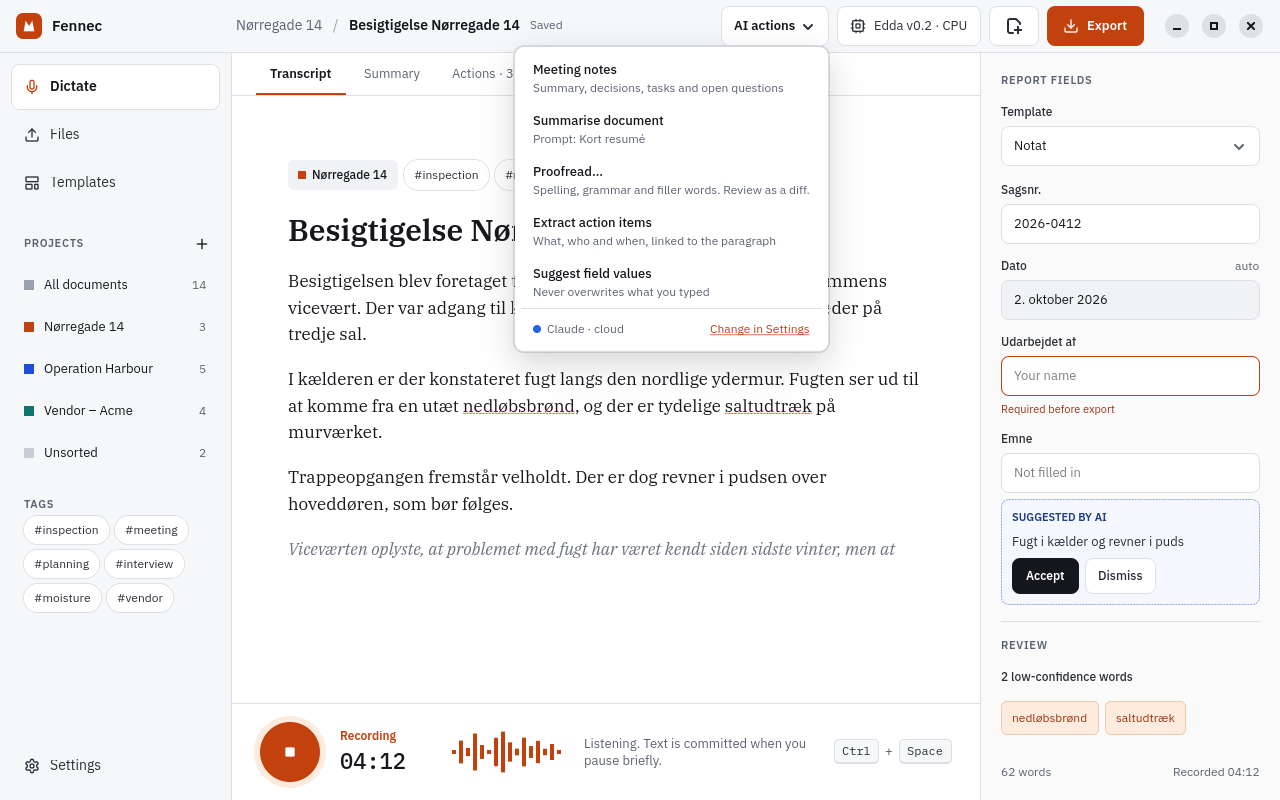
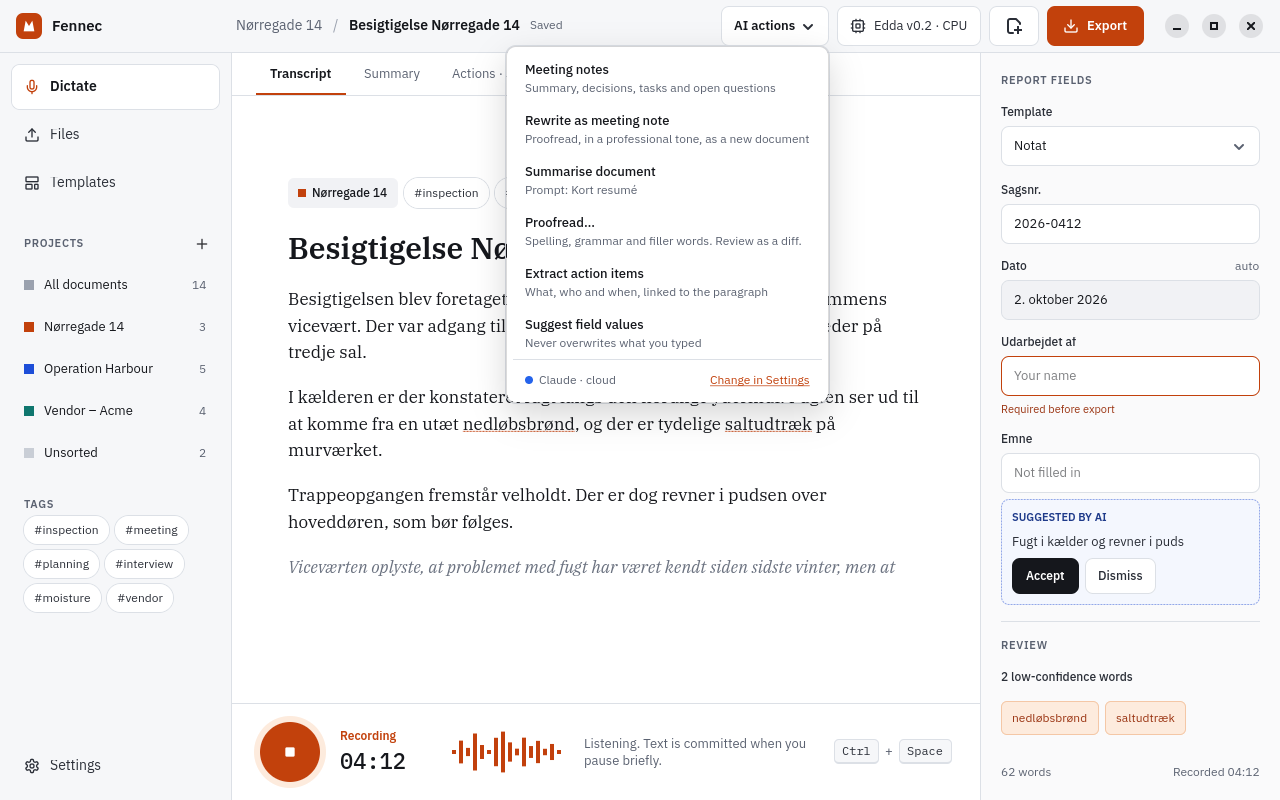
Version 0.5.0, README for sending by QR code and the meeting-note rewrite
- Version 0.5.0 (Fennec Recorder versionCode 11).
- README: the meeting-note rewrite and proofreading in parts, folding on
  small screens, two new screenshots (a meeting note, Receive from phone),
  the AI menu screenshot with Rewrite as meeting note, and what has not been
  tried on a real phone yet.
- Release notes: send by scanning the code, not Pair a phone.
- Opening the finished meeting note now updates the header to its title.
- Mockups: Receive from phone with a stand-in phone, the opened meeting
  note, and meeting notes answered by the mock model instead of Claude.

Changed region(s): [[0.2188, 0.0625, 0.7188, 0.7188]]

diff --git a/tests/mockup/phone.rs b/tests/mockup/phone.rs
@@ -1,0 +1,94 @@
+//! Receive from phone: the code to scan, then a phone sending two
+//! recordings, one arrived and one halfway (a stand-in phone on a thread
+//! speaks the protocol).
+
+use std::time::Duration;
+
+use fennec::ui::Nav;
+
+use crate::{Scene, pump_until};
+
+pub fn capture(s: &Scene) {
+    s.w.sidebar.go(Nav::Files);
+    s.w.phone.receive();
+    let Some(offer) = s.w.phone.offer() else {
+        println!("FAILED no code to scan: {:?}", s.w.phone.transfer());
+        return;
+    };
+    s.shot("receive-phone");
+
+    let base = format!("https://{}", offer.address);
+    let phone = std::thread::spawn(move || {
+        let client = reqwest::blocking::Client::builder()
+            .danger_accept_invalid_certs(true)
+            .build()
+            .unwrap();
+        let hello: serde_json::Value = client
+            .post(format!("{base}/v1/hello"))
+            .json(&serde_json::json!({ "ticket": offer.ticket, "device_name": "Pixel 8" }))
+            .send()
+            .and_then(|r| r.json())
+            .unwrap_or_default();
+        let Some(session) = hello["session"].as_str() else {
+            return;
+        };
+        let send = |id: &str, title: &str, audio: &[u8], sent: usize, ext: &str| {
+            use sha2::Digest;
+            let sum: String = sha2::Sha256::digest(audio)
+                .iter()
+                .map(|b| format!("{b:02x}"))
+                .collect();
+            let meta = serde_json::json!({
+                "title": title, "recorded_at": 1_791_000_000_000_i64, "duration_ms": 1_800_000,
+                "ext": ext, "size": audio.len(), "sha256": sum,
+            });
+            let _ = client
+                .put(format!("{base}/v1/recordings/{id}"))
+                .bearer_auth(session)
+                .json(&meta)
+                .send();
+            let mut offset = 0;
+            while offset < sent {
+                let n = (sent - offset).min(1 << 20);
+                let _ = client
+                    .put(format!("{base}/v1/recordings/{id}/audio?offset={offset}"))
+                    .bearer_auth(session)
+                    .body(audio[offset..offset + n].to_vec())
+                    .send();
+                offset += n;
+            }
+            if sent == audio.len() {
+                let _ = client
+                    .post(format!("{base}/v1/recordings/{id}/complete"))
+                    .bearer_auth(session)
+                    .send();
+            }
+        };
+        let wav = std::fs::read(concat!(
+            env!("CARGO_MANIFEST_DIR"),
+            "/tests/fixtures/da_fleurs_0.wav"
+        ))
+        .unwrap();
+        send(
+            "aaaaaaaa-1111-2222-3333-444444444444",
+            "Byggemøde, Havnegade",
+            &wav,
+            wav.len(),
+            "wav",
+        );
+        let long = vec![0u8; 6_400_000];
+        send(
+            "bbbbbbbb-1111-2222-3333-444444444444",
+            "Interview med afdelingslederen",
+            &long,
+            2_600_000,
+            "aac",
+        );
+    });
+    let _ = phone.join();
+    pump_until(Duration::from_secs(5), || {
+        s.w.phone.dialog_page().as_deref() == Some("sending")
+    });
+    s.shot("receive-sending");
+    s.w.phone.close();
+}

diff --git a/tests/mockup/main.rs b/tests/mockup/main.rs
@@ -9,6 +9,7 @@ mod cleanup;
 mod dictate;
 mod export;
 mod files;
+mod phone;
 mod project;
 mod settings;
 #[path = "../support/mod.rs"]
@@ -641,7 +642,13 @@ fn model(rec: &Recorded) -> Reply {
     if prompt.contains("Skriv diktatet om til et mødenotat") {
         std::thread::sleep(Duration::from_millis(2500));
         return Reply::Text(
-            "Besigtigelsen blev foretaget tirsdag formiddag sammen med ejendommens vicevært.".into(),
+            "Besigtigelsen blev foretaget tirsdag formiddag sammen med ejendommens vicevært. \
+             Der blev givet adgang til kælderen, trappeopgangen og to lejligheder på tredje sal.\n\n\
+             I kælderen blev der konstateret fugt langs den nordlige ydermur. Fugten stammer \
+             sandsynligvis fra en utæt nedløbsbrønd, og der er tydelige saltudtræk på murværket.\n\n\
+             Trappeopgangen er i god stand. Der er dog revner i pudsen over hoveddøren, som bør \
+             følges."
+                .into(),
         );
     }
     if prompt.contains("Korrekturlæs hvert afsnit") {
@@ -736,6 +743,8 @@ fn deps(root: &Path, llm: &MockLlm) -> Deps {
         ("action-items", "claude"),
         ("ask", "claude"),
         ("fill-fields", "workstation"),
+        // Rewrite as meeting note runs here; the Summary shown is seeded.
+        ("meeting-notes", "workstation"),
     ] {
         settings.ai.jobs.insert(job.into(), p.into());
     }
@@ -820,5 +829,9 @@ fn main() {
     // Last: it adds three documents, which would change other screens' counts.
     if run("files") {
         files::capture(&scene, &root);
+    }
+    // After Files: the recording that arrives joins its queue.
+    if run("phone") {
+        phone::capture(&scene);
     }
 }

diff --git a/src/ui/dictation.rs b/src/ui/dictation.rs
@@ -1631,6 +1631,10 @@ impl DictationPage {
                 if let Err(e) = self.open_document(id) {
                     tracing::warn!("opening the meeting note: {e}");
                 }
+                // The header names the open document.
+                if let Some(f) = self.on_document_changed.borrow().clone() {
+                    f(());
+                }
             }
             NoteJob::Idle | NoteJob::Failed => self.note_bar.set_reveal_child(false),
         }

diff --git a/tests/mockup/dictate.rs b/tests/mockup/dictate.rs
@@ -73,4 +73,6 @@ pub fn capture_rewrite(s: &Scene) {
         d.note_status().is_some_and(|t| t.contains("is ready"))
     });
     s.shot("rewrite-note-ready");
+    d.press_note_button();
+    s.shot("rewrite-note-open");
 }

diff --git a/README.md b/README.md
@@ -50,8 +50,10 @@ disk.
 - 🗂 **Projects and tags**: group documents, search across them and export
   them together.
 - 🤖 **Optional AI** (off by default): meeting notes (summary, decisions,
-  tasks with owners and dates, open questions), summaries, proofreading shown
-  as a diff, action items and questions answered from a project with sources.
+  tasks with owners and dates, open questions), a rewrite of a dictation as a
+  professional meeting note, summaries, proofreading shown as a diff that
+  fills in part by part, action items and questions answered from a project
+  with sources.
   Works with a built-in model that runs on this computer (Gemma 4, one-click
   download), Claude, ChatGPT, or your own server (Ollama, llama.cpp,
   LM Studio, vLLM).
@@ -61,7 +63,8 @@ disk.
   and is transcribed like any file. See [`android/`](android/README.md).
 
 The interface is in English; transcripts are in Danish or English, and AI
-answers in the transcript's language unless you pick one.
+answers in the transcript's language unless you pick one. On a small screen
+the sidebar and side panels fold away behind buttons in the header.
 
 ## Screenshots
 
@@ -89,6 +92,14 @@ answers in the transcript's language unless you pick one.
   <tr>
     <td align="center"><sub>Ask a project, with sources</sub></td>
     <td align="center"><sub>Report templates with a live preview</sub></td>
+  </tr>
+  <tr>
+    <td><img src="docs/screenshots/meeting-note.png" alt="A dictation rewritten as a professional meeting note, in a new document next to it"></td>
+    <td><img src="docs/screenshots/receive-from-phone.png" alt="Receive from phone: a phone sending two recordings after scanning Fennec's code"></td>
+  </tr>
+  <tr>
+    <td align="center"><sub>Rewrite a dictation as a meeting note</sub></td>
+    <td align="center"><sub>Send recordings from your phone with a QR code</sub></td>
   </tr>
 </table>
 
@@ -331,7 +342,9 @@ The design, with its reasoning and measurements, is in
 - Fennec Recorder is tested in the Android emulator, whose microphone gives
   silence; recording real speech has not been tried on a real phone yet.
   Camera scanning is tested by reading a screenshot of Fennec's code with the
-  app's scanner, not through a camera.
+  app's scanner, not through a camera, and sending by QR code has been run
+  end to end with the emulator, not yet between a real phone and computer
+  over Wi-Fi.
 
 - The AI actions are tested against mock servers that speak each API, but not
   yet with a real Claude or ChatGPT key. The built-in models were tried with
